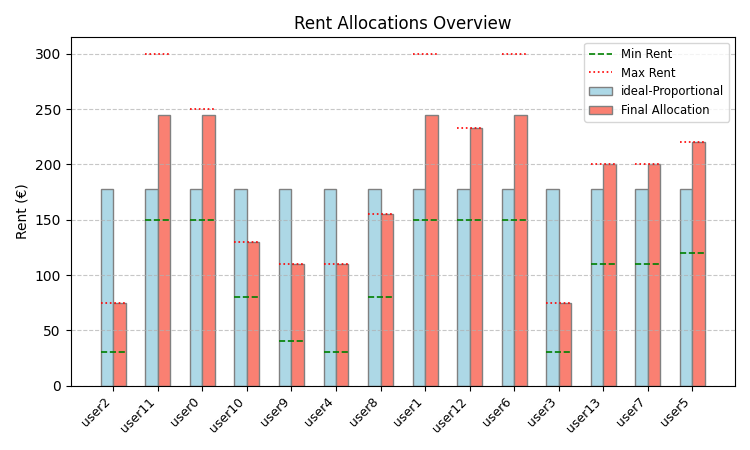
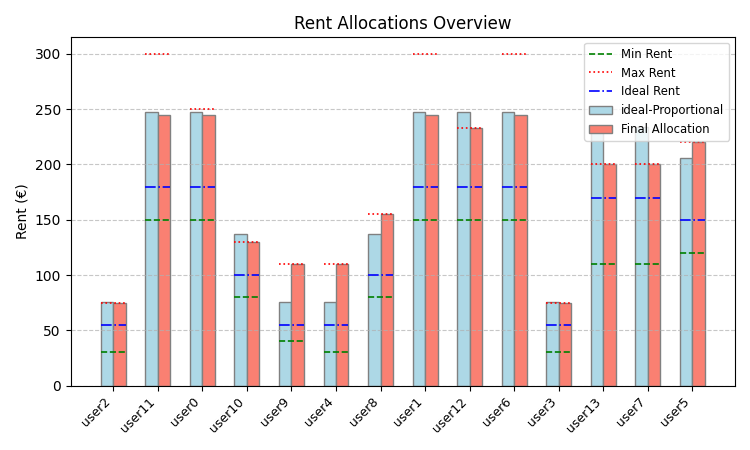
fix Ideal et export proportional images

diff --git a/compute_rent_shares.py b/compute_rent_shares.py
@@ -44,7 +44,6 @@ yaml.add_constructor(
 
 # --- End of the fix ---
 
-
 parser = argparse.ArgumentParser()
 parser.add_argument(
     "--base-dir",
@@ -55,13 +54,13 @@ parser.add_argument(
 parser.add_argument(
     "--user-config-dir",
     type=Path,
-    default=Path(__file__).resolve().parent / "user_configs_test_2",
+    default=Path(__file__).resolve().parent / "user_configs_test_1",
     help="Directory containing user configuration YAML files",
 )
 parser.add_argument(
     "--global-config-path",
     type=Path,
-    default=Path(__file__).resolve().parent / "global_config_2.yaml",
+    default=Path(__file__).resolve().parent / "global_config_1.yaml",
     help="Path to global configuration YAML file",
 )
 parser.add_argument(
@@ -83,6 +82,25 @@ parser.add_argument(
     help="Path to save rent allocation pie chart image",
 )
 parser.add_argument(
+    "--ideal-proportional-output-yaml-path",
+    type=Path,
+    default=Path(__file__).resolve().parent
+    / "ideal_proportional_rent_allocations.yaml",
+    help="Path to save ideal proportional rent allocation YAML file",
+)
+parser.add_argument(
+    "--ideal-proportional-bar-chart-path",
+    type=Path,
+    default=Path(__file__).resolve().parent / "ideal_proportional_barplot.png",
+    help="Path to save ideal proportional rent allocation bar chart image",
+)
+parser.add_argument(
+    "--ideal-proportional-pie-chart-path",
+    type=Path,
+    default=Path(__file__).resolve().parent / "ideal_proportional_piechart.png",
+    help="Path to save ideal proportional rent allocation pie chart image",
+)
+parser.add_argument(
     "--beta-min-violation",
     type=float,
     default=10.0,
@@ -97,6 +115,9 @@ GLOBAL_CONFIG_PATH = args.global_config_path
 OUTPUT_YAML_PATH = args.output_yaml_path
 BAR_CHART_PATH = args.bar_chart_path
 PIE_CHART_PATH = args.pie_chart_path
+IDEAL_PROPORTIONAL_OUTPUT_YAML_PATH = args.ideal_proportional_output_yaml_path
+IDEAL_PROPORTIONAL_BAR_CHART_PATH = args.ideal_proportional_bar_chart_path
+IDEAL_PROPORTIONAL_PIE_CHART_PATH = args.ideal_proportional_pie_chart_path
 DEFAULT_BETA_MIN_VIOLATION = args.beta_min_violation
 
 
@@ -202,7 +223,7 @@ class RentAllocatorApp:
 
         self.users = list(self.user_data.keys())
         self.ideals = {
-            user: data.get("ideal", 0) for user, data in self.user_data.items()
+            user: data.get("Ideal", 0) for user, data in self.user_data.items()
         }
         self.mins = {
             user: data.get("Minimum", 0) for user, data in self.user_data.items()
@@ -561,6 +582,16 @@ class RentAllocatorApp:
                     lw=1.2,
                     label="Max Rent" if i == 0 else "",
                 )
+            # Ideal lines
+            ideal_val = self.ideals.get(user, 0)
+            self.bar_ax.plot(
+                [x_indices[i] - width, x_indices[i] + width],
+                [ideal_val, ideal_val],
+                color="blue",
+                linestyle="-.",
+                lw=1.2,
+                label="Ideal Rent" if i == 0 else "",
+            )
 
         self.bar_ax.set_xticks(x_indices)
         self.bar_ax.set_xticklabels(self.users, rotation=45, ha="right", fontsize=9)
@@ -608,6 +639,120 @@ class RentAllocatorApp:
         self.pie_fig.tight_layout()
         self.pie_canvas.draw()
 
+    def _generate_proportional_plots(self):
+        """Generates and saves the ideal proportional bar and pie charts."""
+        if not self.proportional_initial_allocations or not self.users:
+            logging.warning("No proportional allocation data for plotting.")
+            return
+
+        prop_alloc_vals = [
+            self.proportional_initial_allocations.get(u, 0) for u in self.users
+        ]
+        min_vals = [self.mins.get(u, 0) for u in self.users]
+        max_vals_plot = [
+            self.maxs.get(u, np.nan) for u in self.users
+        ]  # Use NaN for inf for plotting logic
+
+        # Bar Chart
+        prop_bar_fig, prop_bar_ax = plt.subplots(figsize=(8, 5))
+        x_indices = np.arange(len(self.users))
+        width = 0.5
+
+        prop_bar_ax.bar(
+            x_indices,
+            prop_alloc_vals,
+            width,
+            label="Ideal Proportional Allocation",
+            color="skyblue",
+            edgecolor="grey",
+        )
+
+        for i, user in enumerate(self.users):
+            # Min lines
+            prop_bar_ax.plot(
+                [x_indices[i] - width / 2, x_indices[i] + width / 2],
+                [min_vals[i], min_vals[i]],
+                color="green",
+                linestyle="--",
+                lw=1.2,
+                label="Min Rent" if i == 0 else "",
+            )
+            # Max lines (only if not inf)
+            if not np.isnan(max_vals_plot[i]) and max_vals_plot[i] != float("inf"):
+                prop_bar_ax.plot(
+                    [x_indices[i] - width / 2, x_indices[i] + width / 2],
+                    [max_vals_plot[i], max_vals_plot[i]],
+                    color="red",
+                    linestyle=":",
+                    lw=1.2,
+                    label="Max Rent" if i == 0 else "",
+                )
+            # Ideal lines (which are the bars in this case, but good to explicitly show)
+            ideal_val = self.ideals.get(user, 0)
+            prop_bar_ax.plot(
+                [x_indices[i] - width / 2, x_indices[i] + width / 2],
+                [ideal_val, ideal_val],
+                color="blue",
+                linestyle="-.",
+                lw=1.2,
+                label="Ideal Rent" if i == 0 else "",
+            )
+
+        prop_bar_ax.set_xticks(x_indices)
+        prop_bar_ax.set_xticklabels(self.users, rotation=45, ha="right", fontsize=9)
+        prop_bar_ax.set_ylabel("Rent (€)", fontsize=10)
+        prop_bar_ax.set_title("Ideal Proportional Rent Allocation", fontsize=12)
+        prop_bar_ax.legend(fontsize="small")
+        prop_bar_ax.grid(axis="y", linestyle="--", alpha=0.7)
+        prop_bar_fig.tight_layout()
+        prop_bar_fig.savefig(IDEAL_PROPORTIONAL_BAR_CHART_PATH)
+        plt.close(prop_bar_fig)  # Close to free up memory
+        logging.info(
+            f"Ideal proportional bar chart saved to {IDEAL_PROPORTIONAL_BAR_CHART_PATH}"
+        )
+
+        # Pie Chart
+        prop_pie_fig, prop_pie_ax = plt.subplots(figsize=(6, 5))
+        valid_pie_data = [
+            val for val in prop_alloc_vals if val is not None and val > 1e-6
+        ]
+        pie_labels_data = [
+            self.users[i]
+            for i, val in enumerate(prop_alloc_vals)
+            if val is not None and val > 1e-6
+        ]
+
+        if not valid_pie_data or sum(valid_pie_data) == 0:
+            prop_pie_ax.text(
+                0.5,
+                0.5,
+                "No positive proportional allocations\nto display in pie chart.",
+                ha="center",
+                va="center",
+                fontsize=10,
+                wrap=True,
+            )
+        else:
+            pie_display_labels = [
+                f"{label}\n({self.proportional_initial_allocations.get(label, 0):.2f}€)"
+                for label in pie_labels_data
+            ]
+            prop_pie_ax.pie(
+                valid_pie_data,
+                labels=pie_display_labels,
+                autopct="%1.1f%%",
+                startangle=90,
+                textprops={"fontsize": 8},
+            )
+            prop_pie_ax.set_title("Ideal Proportional Rent Share", fontsize=12)
+        prop_pie_ax.axis("equal")
+        prop_pie_fig.tight_layout()
+        prop_pie_fig.savefig(IDEAL_PROPORTIONAL_PIE_CHART_PATH)
+        plt.close(prop_pie_fig)  # Close to free up memory
+        logging.info(
+            f"Ideal proportional pie chart saved to {IDEAL_PROPORTIONAL_PIE_CHART_PATH}"
+        )
+
     def slider_changed(self, new_value_str):
         try:
             self.global_adjustment_alpha = float(new_value_str) / 100.0
@@ -635,6 +780,7 @@ class RentAllocatorApp:
         self.update_plots()
 
     def save_final_allocations(self):
+        # Save final (slider-adjusted) allocations and plots
         if self.final_allocations and all(
             isinstance(val, (int, float)) for val in self.final_allocations.values()
         ):
@@ -647,26 +793,68 @@ class RentAllocatorApp:
                         sort_keys=False,
                         default_flow_style=False,
                     )
-                logging.info(f"Allocations saved to {OUTPUT_YAML_PATH}")
+                logging.info(f"Final allocations saved to {OUTPUT_YAML_PATH}")
 
                 self.bar_fig.savefig(BAR_CHART_PATH)
-                logging.info(f"Bar chart saved to {BAR_CHART_PATH}")
+                logging.info(f"Final bar chart saved to {BAR_CHART_PATH}")
                 self.pie_fig.savefig(PIE_CHART_PATH)
-                logging.info(f"Pie chart saved to {PIE_CHART_PATH}")
+                logging.info(f"Final pie chart saved to {PIE_CHART_PATH}")
+
                 messagebox.showinfo(
                     "Save Successful",
-                    f"Allocations and plots saved to:\n{OUTPUT_YAML_PATH.name}\n{BAR_CHART_PATH.name}\n{PIE_CHART_PATH.name}",
+                    f"Final allocations and plots saved to:\n{OUTPUT_YAML_PATH.name}\n{BAR_CHART_PATH.name}\n{PIE_CHART_PATH.name}",
                 )
             except Exception as e:
-                logging.error(f"Error saving allocations or plots: {e}")
+                logging.error(f"Error saving final allocations or plots: {e}")
                 messagebox.showerror(
-                    "Save Error", f"Failed to save allocations/plots: {e}"
+                    "Save Error", f"Failed to save final allocations/plots: {e}"
                 )
         else:
-            logging.warning("Attempted to save but no valid allocations available.")
+            logging.warning(
+                "Attempted to save final allocations but no valid data available."
+            )
             messagebox.showwarning(
                 "Save Failed",
-                "No valid allocations to save. Please ensure the optimization was successful.",
+                "No valid final allocations to save. Please ensure the optimization was successful.",
+            )
+
+        # Save ideal proportional allocations and plots
+        if self.proportional_initial_allocations and all(
+            isinstance(val, (int, float))
+            for val in self.proportional_initial_allocations.values()
+        ):
+            try:
+                with open(IDEAL_PROPORTIONAL_OUTPUT_YAML_PATH, "w") as f:
+                    yaml.dump(
+                        self.proportional_initial_allocations,
+                        f,
+                        allow_unicode=True,
+                        sort_keys=False,
+                        default_flow_style=False,
+                    )
+                logging.info(
+                    f"Ideal proportional allocations saved to {IDEAL_PROPORTIONAL_OUTPUT_YAML_PATH}"
+                )
+                self._generate_proportional_plots()  # Generate and save the plots
+                messagebox.showinfo(
+                    "Save Successful",
+                    f"Ideal proportional allocations and plots saved to:\n{IDEAL_PROPORTIONAL_OUTPUT_YAML_PATH.name}\n{IDEAL_PROPORTIONAL_BAR_CHART_PATH.name}\n{IDEAL_PROPORTIONAL_PIE_CHART_PATH.name}",
+                )
+            except Exception as e:
+                logging.error(
+                    f"Error saving ideal proportional allocations or plots: {e}"
+                )
+                messagebox.showerror(
+                    "Save Error",
+                    f"Failed to save ideal proportional allocations/plots: {e}",
+                )
+        else:
+            logging.warning(
+                "Attempted to save ideal proportional allocations but no valid data available."
+            )
+            messagebox.showwarning(
+                "Save Failed",
+                "No valid ideal proportional allocations to save. Please ensure proportional calculation was successful.",
             )
 
 
